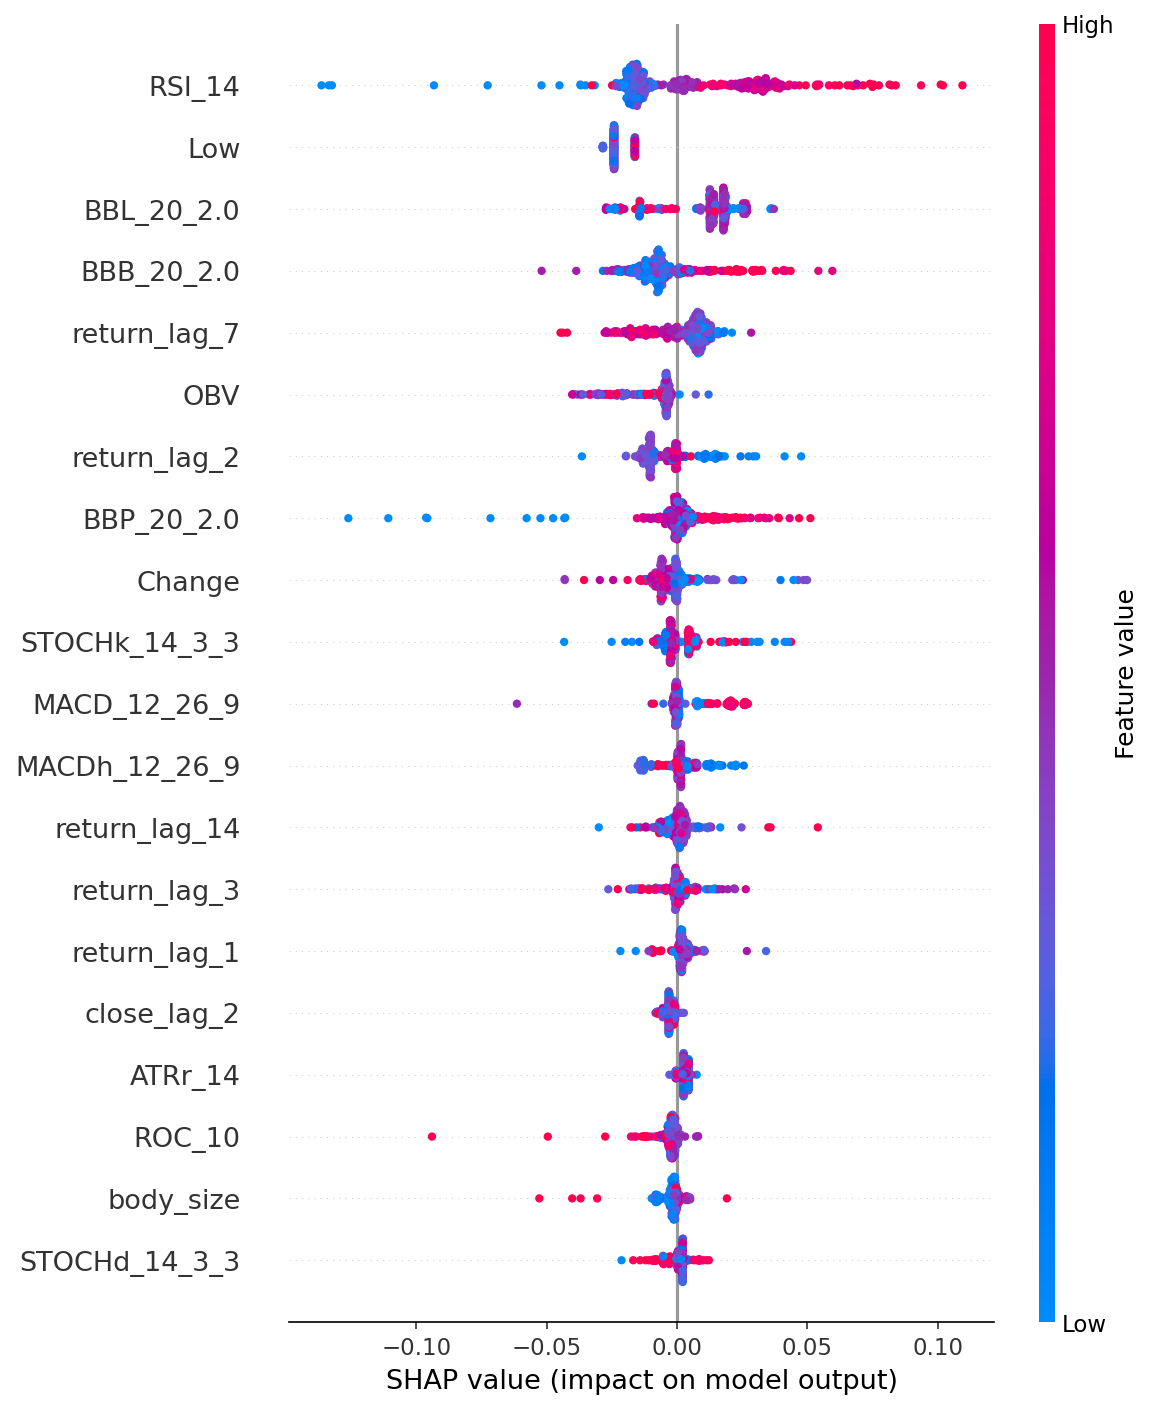
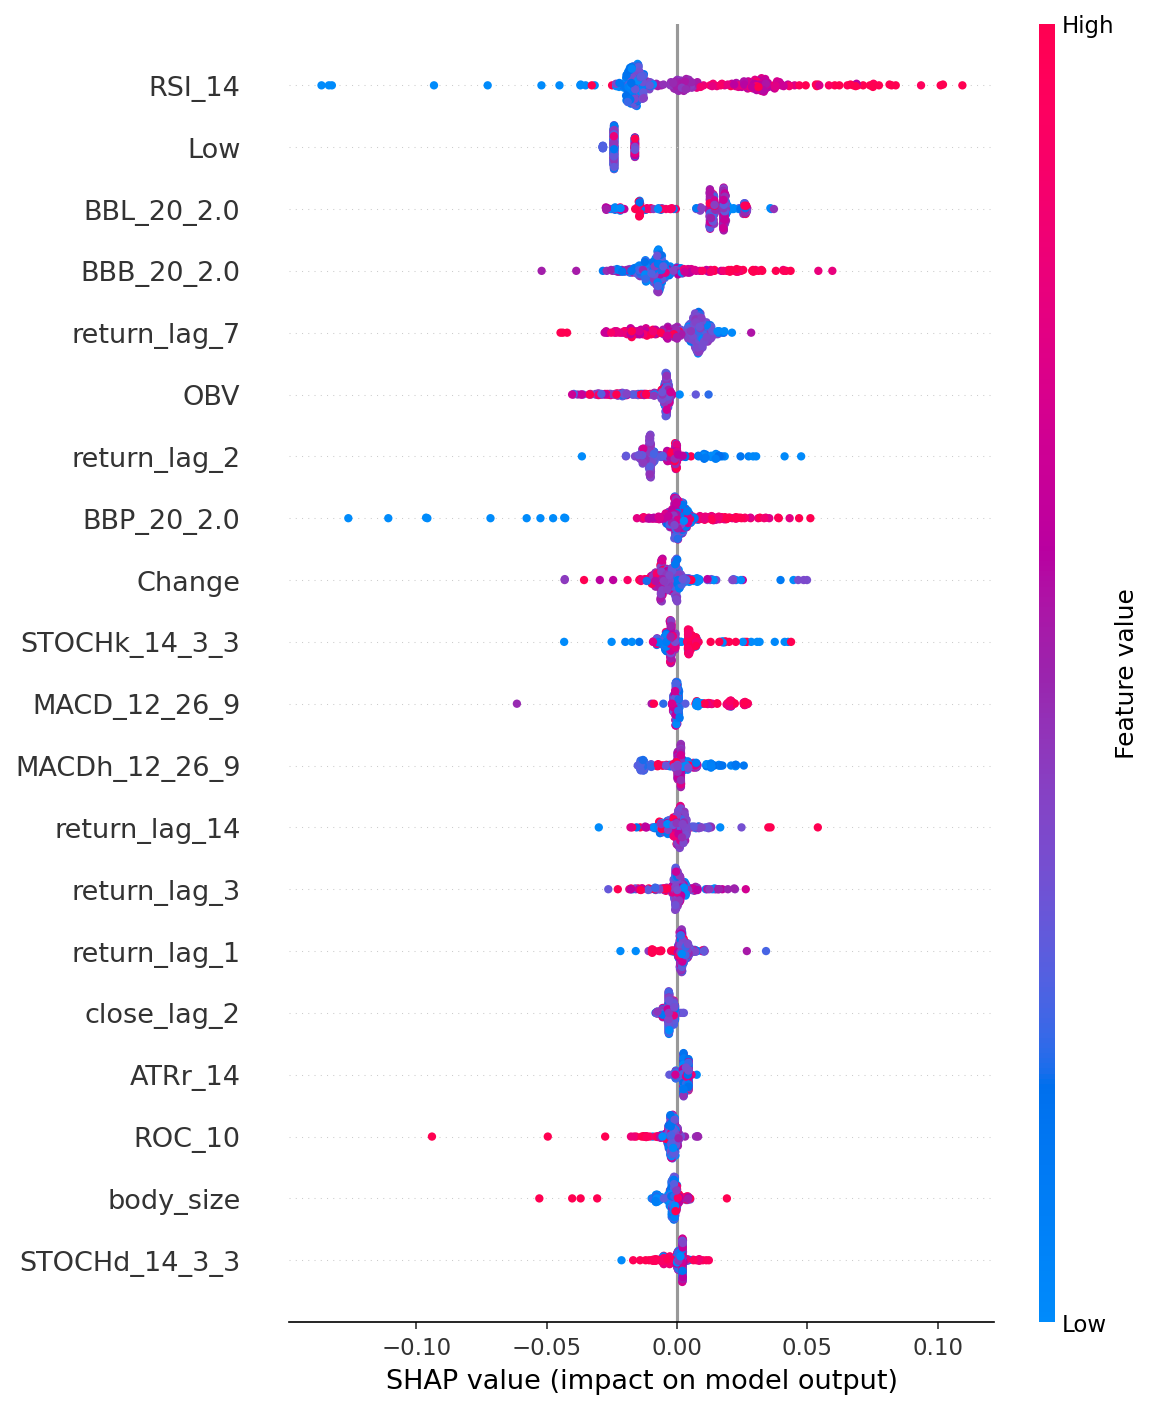
Final: Professional Architecture Pipeline (Cleaned Logs & Params)

Changed region(s): [[0.5308, 0.1561, 0.6245, 0.9056], [0.5308, 0.0312, 0.562, 0.1561], [0.5932, 0.1249, 0.6557, 0.1561]]

diff --git a/src/pipelines/train_flow.py b/src/pipelines/train_flow.py
@@ -214,7 +214,6 @@ def train():
     
     # Evaluate baselines
     from src.models.baselines import evaluate_baselines
-    import joblib
     scaler = joblib.load("artifacts/scaler.pkl")
     baseline_metrics = evaluate_baselines(train_df, val_df, test_df, target, p_lstm["sequence_length"], scaler)
     metrics.update(baseline_metrics)
